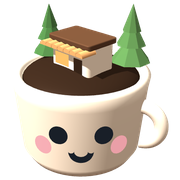
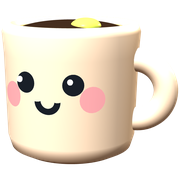
카영 아이콘: 배경 없이 카영이 머그 캐릭터만 크게
Claude-Session: https://claude.ai/code/session_01PMfggq8PzajLUV5htKnLMb

diff --git a/docs/cafe/play/index.html b/docs/cafe/play/index.html
@@ -15,9 +15,9 @@
 <meta property="og:image:height" content="630">
 <meta name="twitter:card" content="summary_large_image">
 <meta name="theme-color" content="#140E0A">
-<link rel="icon" href="/cafe/play/cafe-icon-48.png?v=5" sizes="48x48" type="image/png">
-<link rel="icon" href="/cafe/play/cafe-icon-32.png?v=5" sizes="32x32" type="image/png">
-<link rel="apple-touch-icon" href="/cafe/play/cafe-icon-180.png?v=5">
+<link rel="icon" href="/cafe/play/cafe-icon-48.png?v=6" sizes="48x48" type="image/png">
+<link rel="icon" href="/cafe/play/cafe-icon-32.png?v=6" sizes="32x32" type="image/png">
+<link rel="apple-touch-icon" href="/cafe/play/cafe-icon-180.png?v=6">
 <script>window.dataLayer=window.dataLayer||[];function gtag(){dataLayer.push(arguments)}gtag('js',new Date());gtag('config','G-ZTK7QZC3NK');addEventListener('load',function(){setTimeout(function(){var s=document.createElement('script');s.async=1;s.src='https://www.googletagmanager.com/gtag/js?id=G-ZTK7QZC3NK';document.head.appendChild(s)},1500)});</script>
 <style>[hidden]{display:none!important}</style>
 </head>
